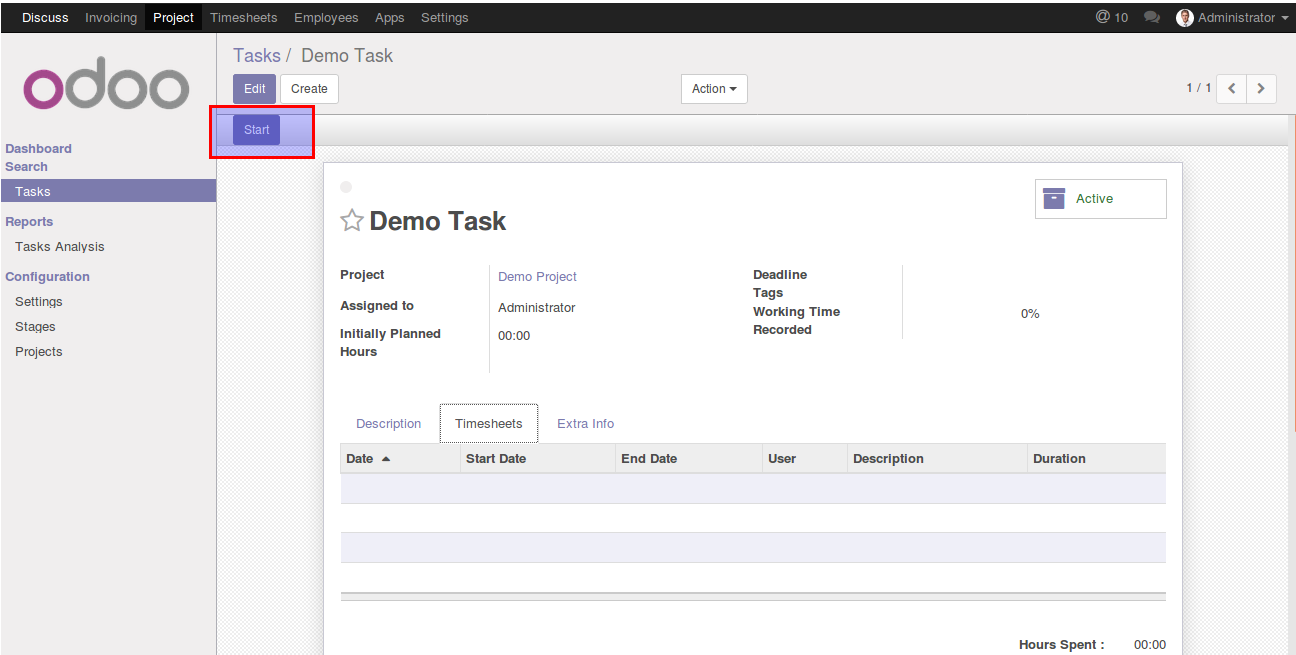
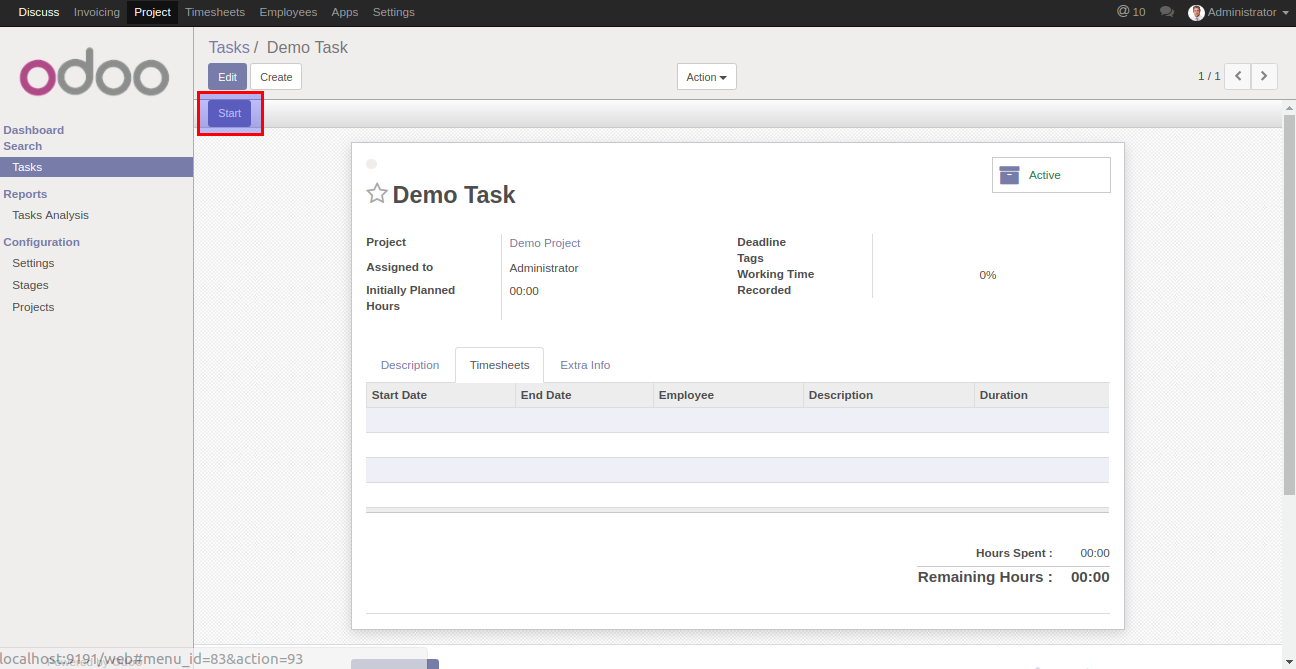
[IMP] imporvement in code as per test cases for branch 10.0

diff --git a/automatic_task_duration/wizards/task_entry.py b/automatic_task_duration/wizards/task_entry.py
@@ -2,7 +2,7 @@
 import datetime
 
 from odoo import _, api, fields, models
-from odoo.exceptions import Warning
+from odoo.exceptions import UserError
 
 
 class TaskEntry(models.TransientModel):
@@ -10,6 +10,7 @@ class TaskEntry(models.TransientModel):
 
     start_date = fields.Datetime(string="Start Date", readonly=True)
     end_date = fields.Datetime(string="End Date", readonly=True)
+    employee_id = fields.Many2one('hr.employee', string="Employee", required=True)
     description = fields.Text(string="Description", required=True)
     duration = fields.Float('Duration', readonly=True)
 
@@ -38,7 +39,7 @@ class TaskEntry(models.TransientModel):
         task_rec = self.env['project.task'].browse(task_id)
         project_id = task_rec.project_id
         if self.duration == 0.0:
-            raise Warning(_("You can't save entry for %s duration") % (
+            raise UserError(_("You can't save entry for %s duration") % (
                 self.duration))
         vals = {'date': fields.Date.context_today(self),
                 'start_date': self.start_date,
@@ -47,9 +48,10 @@ class TaskEntry(models.TransientModel):
                 'name': self.description,
                 'task_id': task_id,
                 'project_id': project_id.id,
+                'employee_id': self.employee_id.id,
                 'unit_amount': self.duration,
                 'account_id': project_id.analytic_account_id.id
                 }
-        analytic_line_rec = self.env['account.analytic.line'].create(vals)
+        analytic_line_rec = self.env['account.analytic.line'].sudo().create(vals)
         task_rec.write({'timesheet_ids': [(4, 0, [analytic_line_rec.id])],
                         'is_start': False})

diff --git a/automatic_task_duration/models/project.py b/automatic_task_duration/models/project.py
@@ -1,5 +1,6 @@
 # -*- coding: utf-8 -*-
-from odoo import api, fields, models
+from odoo import api, fields, models, _
+from odoo.exceptions import Warning
 
 
 class ProjectTask(models.Model):
@@ -14,8 +15,11 @@ class ProjectTask(models.Model):
         """
         Start the Timmer.
         """
-        self.write({'is_start': True,
-                    'start_date': fields.Datetime.now()})
+        if self.project_id:
+            self.write({'is_start': True,
+                        'start_date': fields.Datetime.now()})
+        else:
+            raise Warning(_("Please link Project to this Task to save the entry"))
 
     @api.multi
     def end_timer(self):

diff --git a/automatic_task_duration/__manifest__.py b/automatic_task_duration/__manifest__.py
@@ -17,6 +17,7 @@
     ],
     'website': 'www.aktivsoftware.com',
     'data': [
+        'security/ir.model.access.csv',
         'views/project_timesheet_view.xml',
         'wizards/task_entry_view.xml'
     ],
